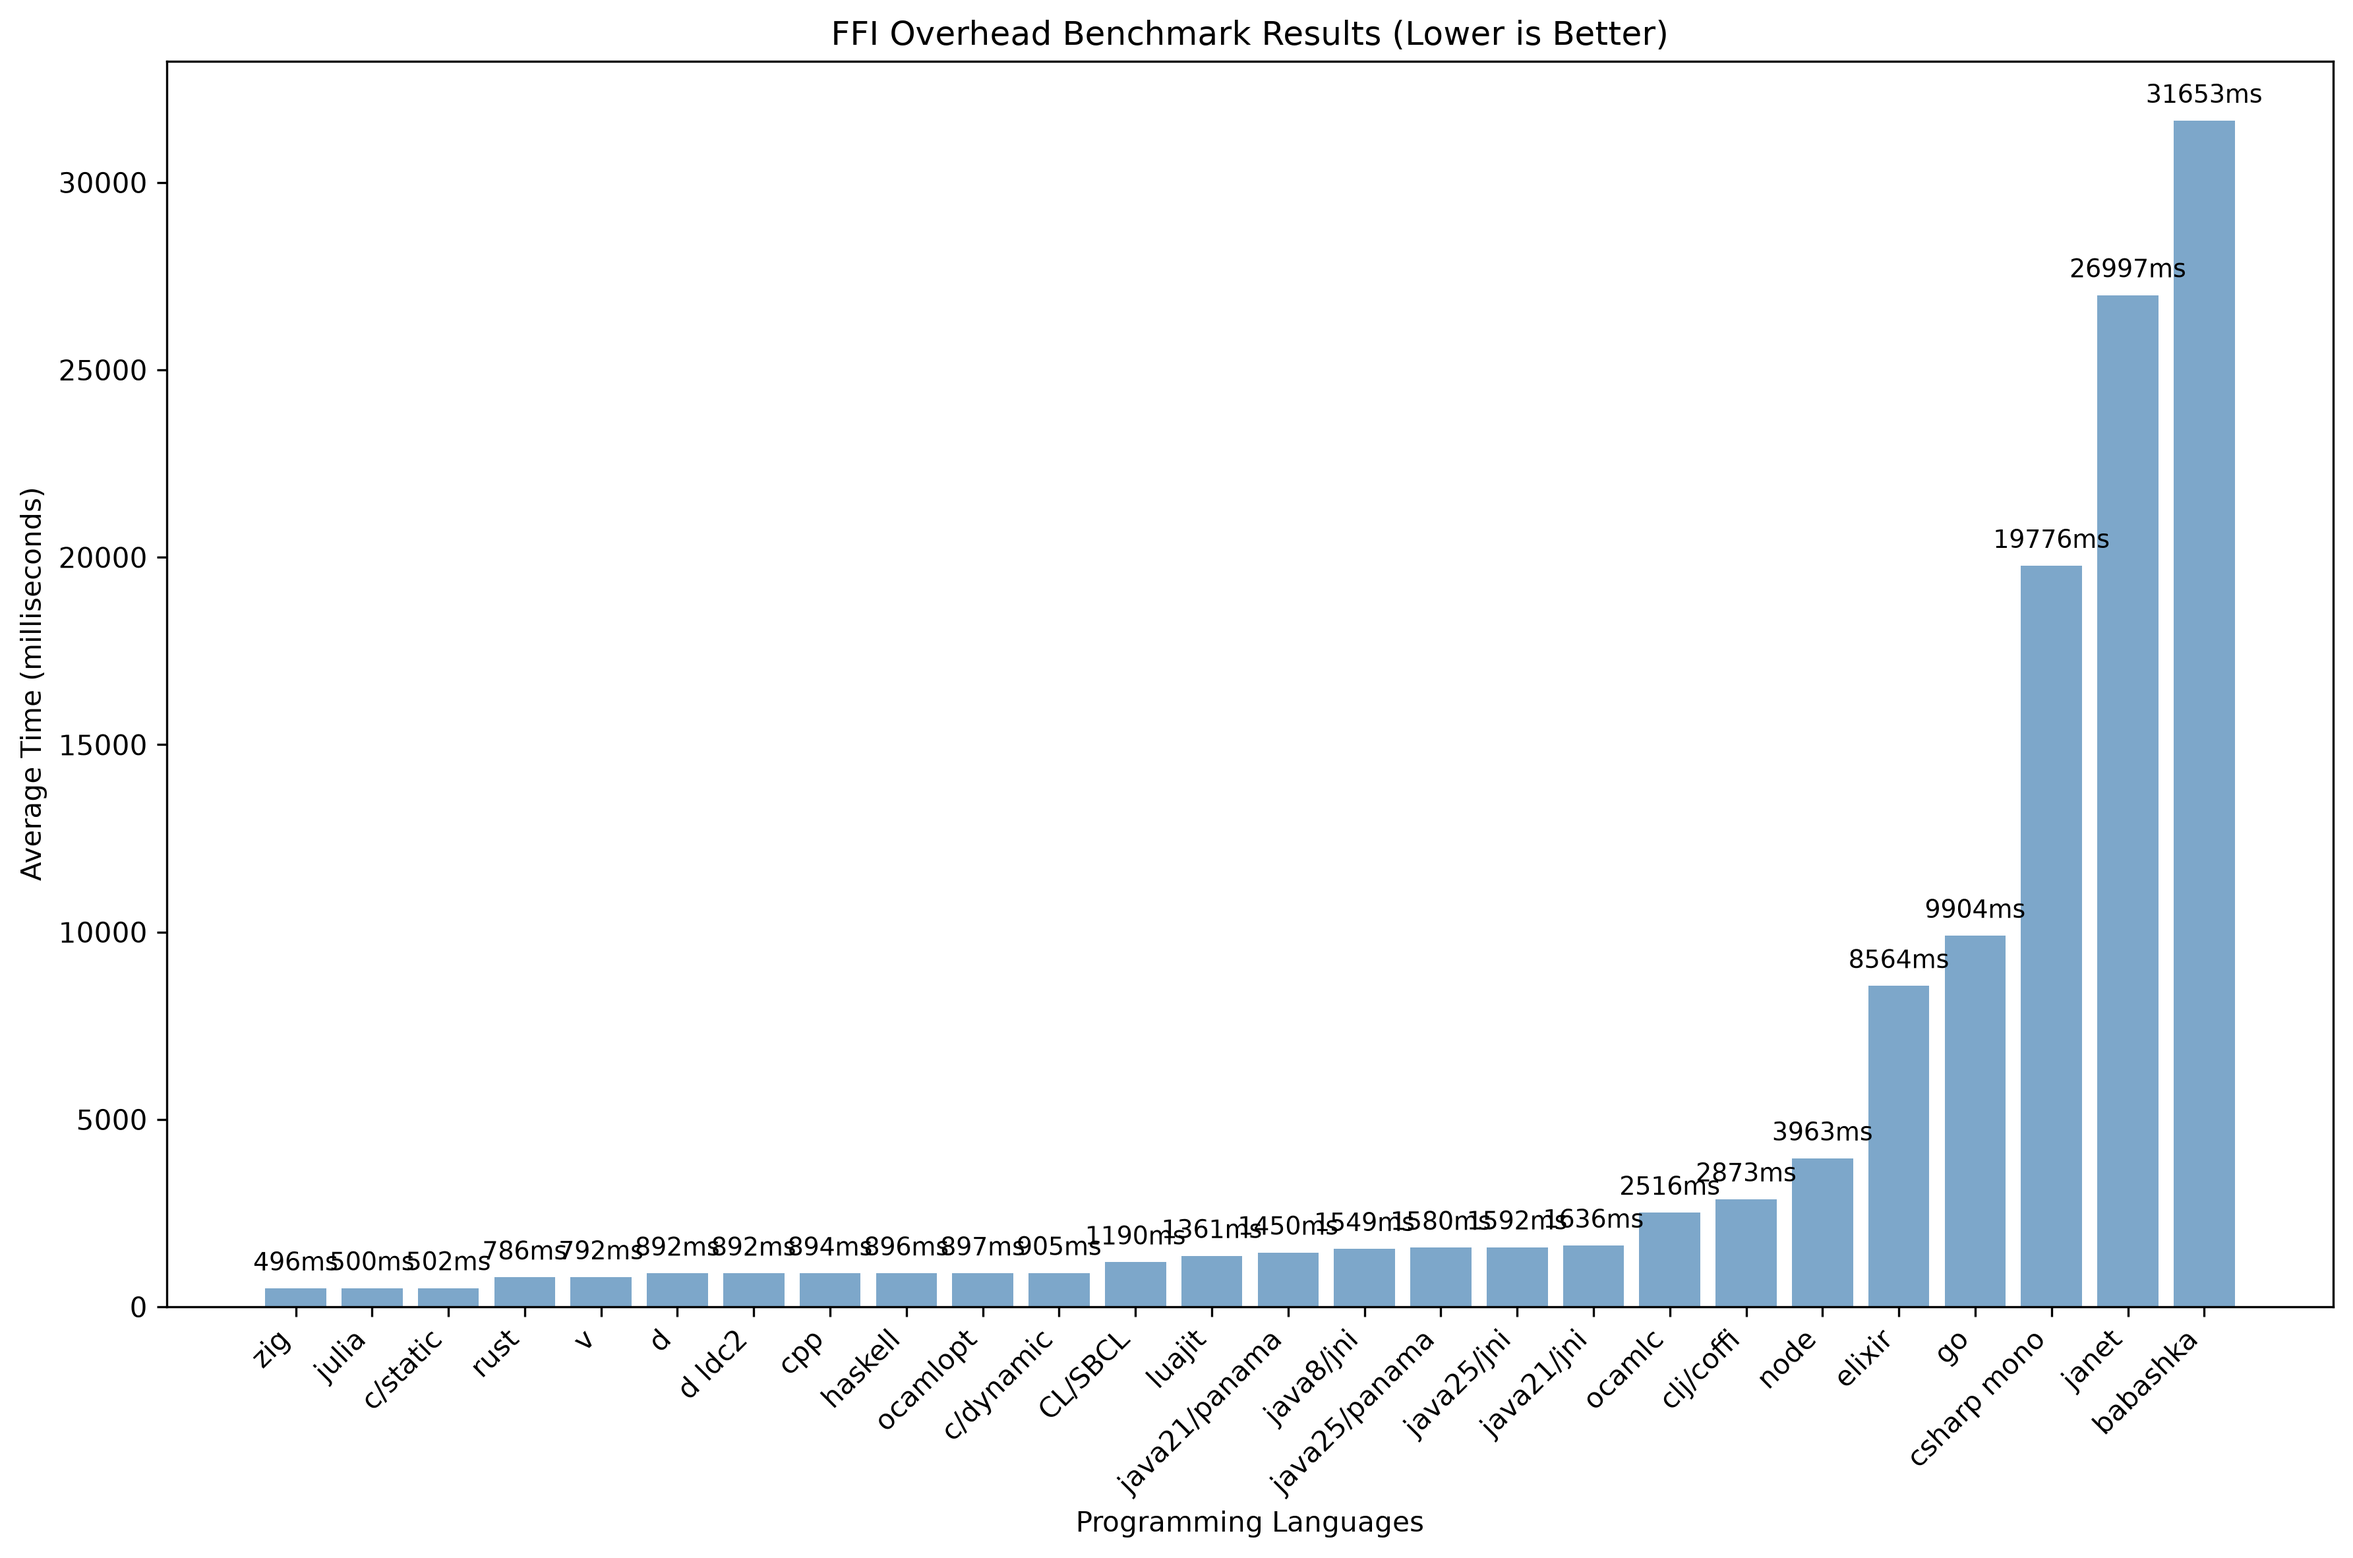
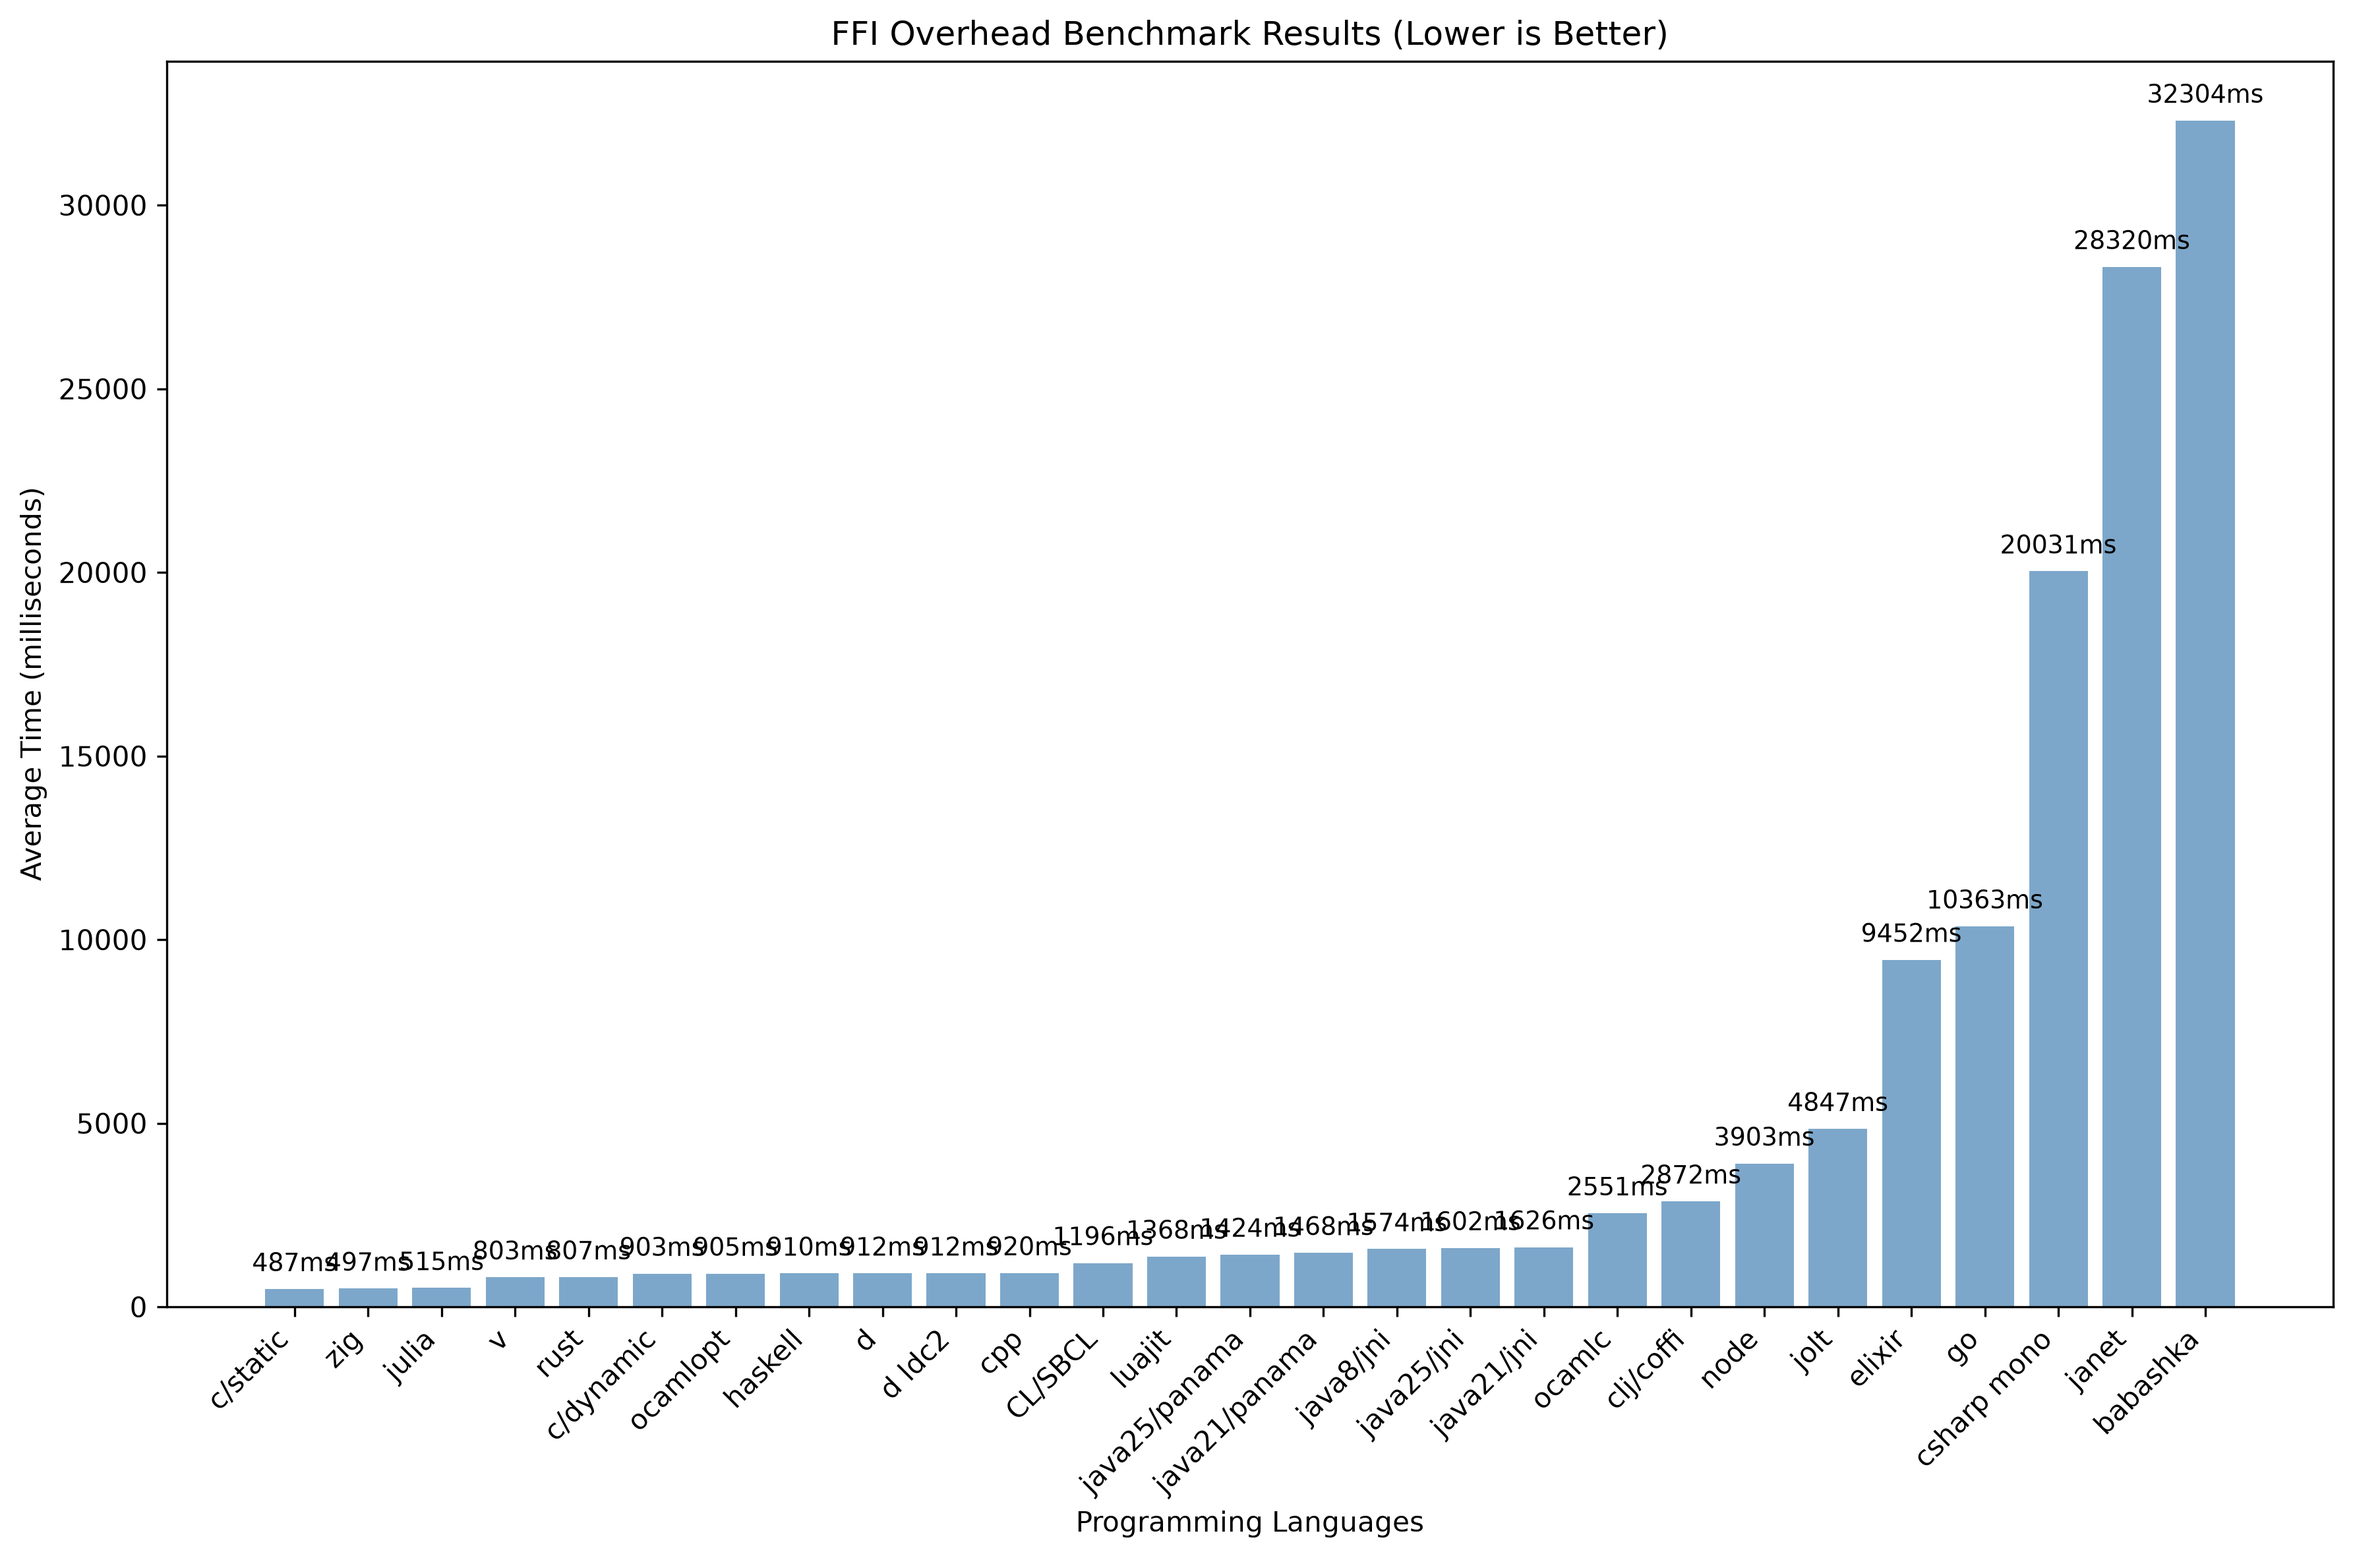
bench: publish Jolt benchmark results

diff --git a/README.md b/README.md
@@ -39,32 +39,33 @@ nix develop --command -- python3 bench.py \
 
 | Benchmark | Mean | Min | Max | Std dev | vs baseline |
 |---|---:|---:|---:|---:|---:|
-| c/static | 502 ms | 497 ms | 506 ms | 2.6 ms | 1.00x (baseline) |
-| luajit | 1361 ms | 1351 ms | 1379 ms | 8.2 ms | 2.71x slower |
-| c/dynamic | 905 ms | 890 ms | 983 ms | 27.9 ms | 1.80x slower |
-| cpp | 894 ms | 887 ms | 932 ms | 14.3 ms | 1.78x slower |
-| CL/SBCL | 1190 ms | 1182 ms | 1205 ms | 7.5 ms | 2.37x slower |
-| zig | 496 ms | 494 ms | 498 ms | 1.4 ms | 1.01x faster |
-| v | 792 ms | 789 ms | 797 ms | 2.4 ms | 1.58x slower |
-| rust | 786 ms | 783 ms | 792 ms | 3.2 ms | 1.57x slower |
-| d | 892 ms | 883 ms | 900 ms | 5.4 ms | 1.77x slower |
-| d ldc2 | 892 ms | 887 ms | 913 ms | 7.6 ms | 1.78x slower |
-| haskell | 896 ms | 886 ms | 940 ms | 15.8 ms | 1.78x slower |
-| ocamlopt | 897 ms | 892 ms | 902 ms | 3.7 ms | 1.79x slower |
-| ocamlc | 2516 ms | 2491 ms | 2547 ms | 18.8 ms | 5.01x slower |
-| csharp mono | 19776 ms | 19667 ms | 19938 ms | 97.8 ms | 39.36x slower |
-| java8/jni | 1549 ms | 1491 ms | 1866 ms | 118.2 ms | 3.08x slower |
-| java21/jni | 1636 ms | 1576 ms | 1823 ms | 73.5 ms | 3.26x slower |
-| java25/jni | 1592 ms | 1551 ms | 1620 ms | 18.3 ms | 3.17x slower |
-| java21/panama | 1450 ms | 1436 ms | 1490 ms | 16.5 ms | 2.89x slower |
-| java25/panama | 1580 ms | 1435 ms | 1768 ms | 125.2 ms | 3.14x slower |
-| node | 3963 ms | 3824 ms | 4297 ms | 163.8 ms | 7.89x slower |
-| go | 9904 ms | 9675 ms | 10206 ms | 183.5 ms | 19.71x slower |
-| elixir | 8564 ms | 8474 ms | 8631 ms | 52.9 ms | 17.05x slower |
-| julia | 500 ms | 495 ms | 503 ms | 2.7 ms | 1.01x faster |
-| janet | 26997 ms | 26452 ms | 28058 ms | 449.6 ms | 53.74x slower |
-| babashka | 31653 ms | 31110 ms | 32282 ms | 387.0 ms | 63.00x slower |
-| clj/coffi | 2873 ms | 2685 ms | 3330 ms | 189.9 ms | 5.72x slower |
+| c/static | 487 ms | 479 ms | 492 ms | 4.5 ms | 1.00x (baseline) |
+| luajit | 1368 ms | 1319 ms | 1402 ms | 31.4 ms | 2.81x slower |
+| c/dynamic | 903 ms | 891 ms | 946 ms | 15.8 ms | 1.86x slower |
+| cpp | 920 ms | 900 ms | 990 ms | 27.7 ms | 1.89x slower |
+| CL/SBCL | 1196 ms | 1172 ms | 1231 ms | 19.4 ms | 2.46x slower |
+| zig | 497 ms | 490 ms | 506 ms | 5.2 ms | 1.02x slower |
+| v | 803 ms | 790 ms | 819 ms | 9.1 ms | 1.65x slower |
+| rust | 807 ms | 794 ms | 824 ms | 8.9 ms | 1.66x slower |
+| d | 912 ms | 899 ms | 931 ms | 10.0 ms | 1.87x slower |
+| d ldc2 | 912 ms | 905 ms | 933 ms | 8.6 ms | 1.87x slower |
+| haskell | 910 ms | 900 ms | 915 ms | 4.9 ms | 1.87x slower |
+| ocamlopt | 905 ms | 895 ms | 920 ms | 8.6 ms | 1.86x slower |
+| ocamlc | 2551 ms | 2507 ms | 2622 ms | 34.0 ms | 5.24x slower |
+| csharp mono | 20031 ms | 19906 ms | 20161 ms | 84.2 ms | 41.16x slower |
+| java8/jni | 1574 ms | 1484 ms | 1776 ms | 84.3 ms | 3.23x slower |
+| java21/jni | 1626 ms | 1602 ms | 1656 ms | 15.6 ms | 3.34x slower |
+| java25/jni | 1602 ms | 1567 ms | 1706 ms | 42.1 ms | 3.29x slower |
+| java21/panama | 1468 ms | 1431 ms | 1529 ms | 26.7 ms | 3.02x slower |
+| java25/panama | 1424 ms | 1390 ms | 1469 ms | 25.2 ms | 2.93x slower |
+| node | 3903 ms | 3775 ms | 4351 ms | 163.5 ms | 8.02x slower |
+| go | 10363 ms | 9747 ms | 11204 ms | 467.8 ms | 21.29x slower |
+| elixir | 9452 ms | 9179 ms | 10088 ms | 297.4 ms | 19.42x slower |
+| julia | 515 ms | 503 ms | 525 ms | 7.0 ms | 1.06x slower |
+| janet | 28320 ms | 27211 ms | 34228 ms | 2101.6 ms | 58.19x slower |
+| jolt | 4847 ms | 4698 ms | 5061 ms | 95.5 ms | 9.96x slower |
+| babashka | 32304 ms | 31286 ms | 33552 ms | 690.7 ms | 66.37x slower |
+| clj/coffi | 2872 ms | 2707 ms | 3083 ms | 130.1 ms | 5.90x slower |
 
 Ran on an AMD Ryzen 9 7950X3D 16-Core CPU.
 
@@ -118,6 +119,7 @@ Current environment (Nix) (2026-08):
 - node 24.19.0
 - elixir 1.18.4 (Erlang/OTP 28)
 - janet 1.41.2-release
+- jolt aafa0fc
 - clojure 1.12.5 (coffi 1.0.615)
 - babashka 1.13.220-SNAPSHOT (libffi 3.8.0, plusone backend trampoline)
 - nim 2.2.10 (disabled - rpath issues)
